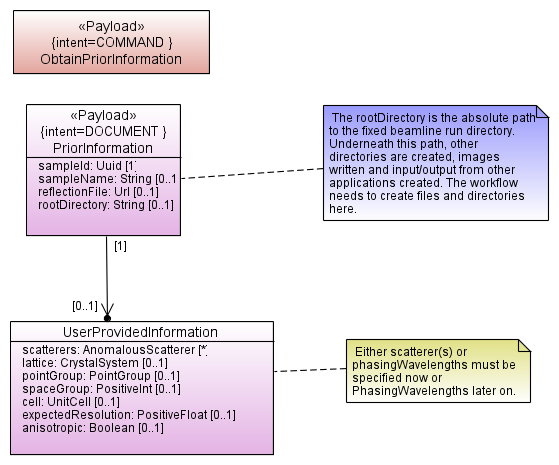
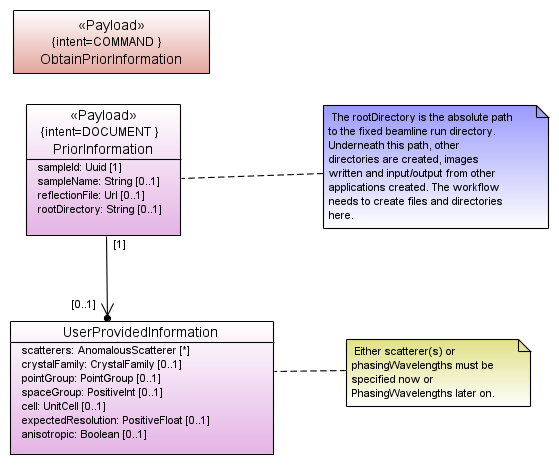
Fix confusion between crystal system and crystal family
- An enum called CrystalSystem was defined incorrectly, and used as a
stand-in for "crystal family"
   - The erroneous type has been replaced with a correctly-defined
CrystalFamily type, and field/method names and javadoc corrected.
 - "lattice" has been deprecated/replaced where crystal family is the
correct type
 - "xdsChar" has been deprecated/replaced: the Pearson lattice symbols
are not XDS-specific

diff --git a/com.globalphasing.sdcp.abstract_beamline/src/co/gphl/beamline/v2_unstable/domain_types/CrystalFamily.java b/com.globalphasing.sdcp.abstract_beamline/src/co/gphl/beamline/v2_unstable/domain_types/CrystalFamily.java
@@ -1,0 +1,57 @@
+/*
+ * Copyright © 2014, 2023 by Global Phasing Ltd. All rights reserved
+ *
+ * This software is proprietary to and embodies the confidential
+ * technology of Global Phasing Limited (GPhL).
+ *
+ * Any possession or use (including but not limited to duplication, reproduction
+ * and dissemination) of this software (in either source or compiled form) is
+ * forbidden except where an agreement with GPhL that permits such possession or
+ * use is in force.
+ *
+ */
+package co.gphl.beamline.v2_unstable.domain_types;
+
+public enum CrystalFamily {
+
+    TRICLINIC('a'), MONOCLINIC('m'), ORTHORHOMBIC('o'),
+    TETRAGONAL('t'), HEXAGONAL('h'), CUBIC('c');
+    
+    private final Character pearsonChar;
+    
+    CrystalFamily(Character pearsonChar) {
+        this.pearsonChar = pearsonChar;
+    }
+    
+    /**
+     * Returns the character representing the crystal family that is used
+     * in the Pearson symbols for the Bravais lattices that belong to the
+     * crystal family.
+     * 
+     * @return crystal family as the character used in Pearson symbols
+     */
+    public Character getPearsonChar() {
+        return this.pearsonChar;
+    }
+    
+    public static CrystalFamily getByPearsonChar(char pearsonChar) {
+        for ( CrystalFamily s: CrystalFamily.values() ) {
+            if ( pearsonChar == s.pearsonChar )
+                return s;
+        }
+        
+        throw new IllegalArgumentException("Cannot translate '" + pearsonChar +
+                "' to a crystal family");
+        
+    }
+    
+    /** @deprecated use {@link #getPearsonChar()} */
+    @Deprecated public Character getXdsChar() {
+        return this.getPearsonChar();
+    }
+    
+    /** @deprecated use {@link #getByPearsonChar(char)} */
+    @Deprecated public static CrystalFamily getByXdsChar(char pearsonChar) {
+        return CrystalFamily.getByPearsonChar(pearsonChar);
+    }
+}

diff --git a/com.globalphasing.sdcp.abstract_beamline/src/co/gphl/beamline/v2_unstable/ui/ChooseLattice.java b/com.globalphasing.sdcp.abstract_beamline/src/co/gphl/beamline/v2_unstable/ui/ChooseLattice.java
@@ -22,7 +22,7 @@ package co.gphl.beamline.v2_unstable.ui;
 import java.util.Set;
 
 import co.gphl.beamline.v2_unstable.Payload;
-import co.gphl.beamline.v2_unstable.domain_types.CrystalSystem;
+import co.gphl.beamline.v2_unstable.domain_types.CrystalFamily;
 import co.gphl.beamline.v2_unstable.domain_types.IndexingFormat;
 
 public interface ChooseLattice extends Payload {
@@ -35,9 +35,9 @@ public interface ChooseLattice extends Payload {
      * crystal system the set will be {mC, mI}.
      * 
      * N.B. The behaviour of this method has changed compared to previous versions.
-     * The instance may have been instantiated specifying the crystal system, in
+     * The instance may have been instantiated specifying the crystal family, in
      * which case this method will return an empty set. In this case, the crystal
-     * system is available by using the {@link #getCrystalSystem()} method.
+     * family is available by using the {@link #getCrystalFamily()} method.
      * 
      * @return a set of 1 or 2 strings representing the Bravais Lattice, or the empty
      * set if a spacegroup for the sample was not provided at the start of the workflow.
@@ -48,13 +48,13 @@ public interface ChooseLattice extends Payload {
     boolean isSetLattices();
     
     /**
-     * Get the crystal system implied by the user's choice of crystal symmetry.
+     * Get the crystal family implied by the user's choice of crystal symmetry.
      * 
-     * @return crystal system or {@code null} if the user did not specify any crystal symmetry.
+     * @return crystal family or {@code null} if the user did not specify any crystal symmetry.
      */
-    CrystalSystem getCrystalSystem();
+    CrystalFamily getCrystalFamily();
     
-    boolean isSetCrystalSystem();
+    boolean isSetCrystalFamily();
     String getSolutions();
 
 }

diff --git a/com.globalphasing.sdcp.abstract_beamline/src/co/gphl/beamline/v2_unstable/domain_types/PointGroup.java b/com.globalphasing.sdcp.abstract_beamline/src/co/gphl/beamline/v2_unstable/domain_types/PointGroup.java
@@ -12,7 +12,7 @@
  */
 package co.gphl.beamline.v2_unstable.domain_types;
 
-import static co.gphl.beamline.v2_unstable.domain_types.CrystalSystem.*;
+import static co.gphl.beamline.v2_unstable.domain_types.CrystalFamily.*;
 
 /**
  * Enumeration of the point groups needed to allow for user specification.
@@ -32,18 +32,18 @@ public enum PointGroup {
     PG2(MONOCLINIC, 3),
     PG222(ORTHORHOMBIC, 16),
     PG4(TETRAGONAL, 75), PG422(TETRAGONAL, 89),
-    PG3(TRIGONAL, 143), 
+    PG3(HEXAGONAL, 143), 
     /* There is no reason to prefer P 3 1 2 (149) over P 3 2 1 (150) here,
      * but we have to specify one */
-    PG32(TRIGONAL, 149),
+    PG32(HEXAGONAL, 149),
     PG6(HEXAGONAL, 168), PG622(HEXAGONAL, 177),
     PG23(CUBIC, 195), PG432(CUBIC, 207);
     
-    private final CrystalSystem crystalSystem;
+    private final CrystalFamily crystalFamily;
     private final short primitiveSpaceGroup;
     
-    PointGroup(CrystalSystem crystalSystem, int primitiveSpaceGroup) {
-        this.crystalSystem = crystalSystem;
+    PointGroup(CrystalFamily crystalFamily, int primitiveSpaceGroup) {
+        this.crystalFamily = crystalFamily;
         this.primitiveSpaceGroup = (short) primitiveSpaceGroup;
     }
     
@@ -51,8 +51,8 @@ public enum PointGroup {
         return this.name().substring(2);
     }
     
-    public CrystalSystem getCrystalSystem() {
-        return this.crystalSystem;
+    public CrystalFamily getCrystalFamily() {
+        return this.crystalFamily;
     }
     
     public short getPrimitiveSpaceGroup() {

diff --git a/com.globalphasing.sdcp.abstract_beamline/src/co/gphl/beamline/v2_unstable/ui/UserProvidedInfo.java b/com.globalphasing.sdcp.abstract_beamline/src/co/gphl/beamline/v2_unstable/ui/UserProvidedInfo.java
@@ -3,7 +3,7 @@ package co.gphl.beamline.v2_unstable.ui;
 import java.util.Set;
 
 import co.gphl.beamline.v2_unstable.domain_types.AnomalousScatterer;
-import co.gphl.beamline.v2_unstable.domain_types.CrystalSystem;
+import co.gphl.beamline.v2_unstable.domain_types.CrystalFamily;
 import co.gphl.beamline.v2_unstable.domain_types.PointGroup;
 import co.gphl.beamline.v2_unstable.domain_types.UnitCell;
 
@@ -14,8 +14,15 @@ public interface UserProvidedInfo {
     UnitCell getCell();
     boolean isSetCell();
     float getExpectedResolution();
-    boolean isSetLattice();
-    CrystalSystem getLattice();
+
+    /** @deprecated use {@link #isSetCrystalFamily()} */
+    @Deprecated boolean isSetLattice();
+    boolean isSetCrystalFamily();
+
+    /** use {@link #getCrystalFamily()} */
+    @Deprecated CrystalFamily getLattice();
+    CrystalFamily getCrystalFamily();
+
     boolean isSetPointGroup();
     PointGroup getPointGroup();
     Set<AnomalousScatterer> getScatterers();
